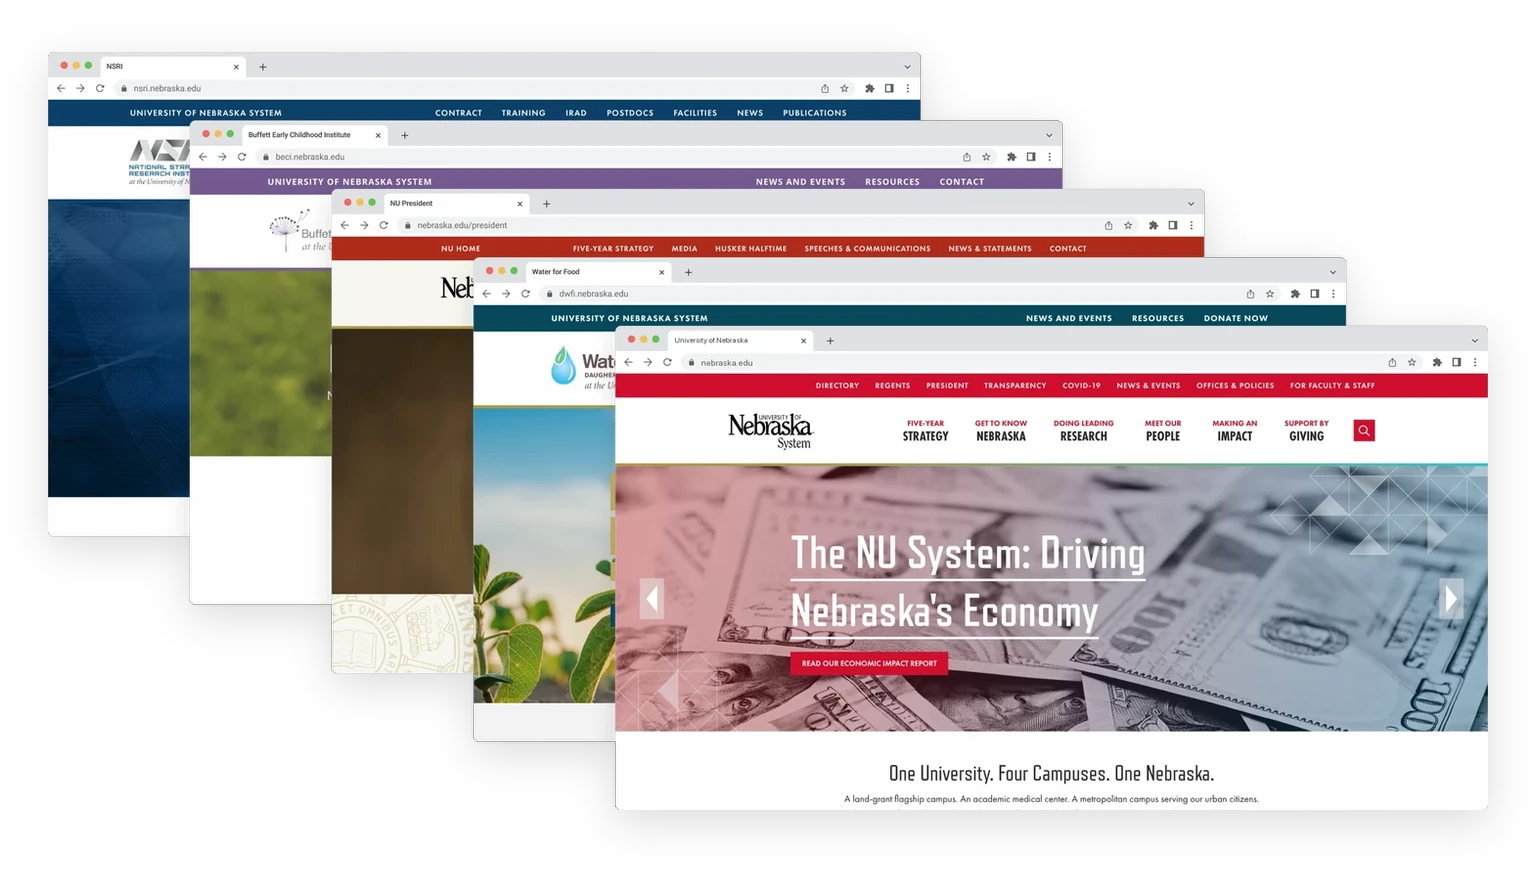
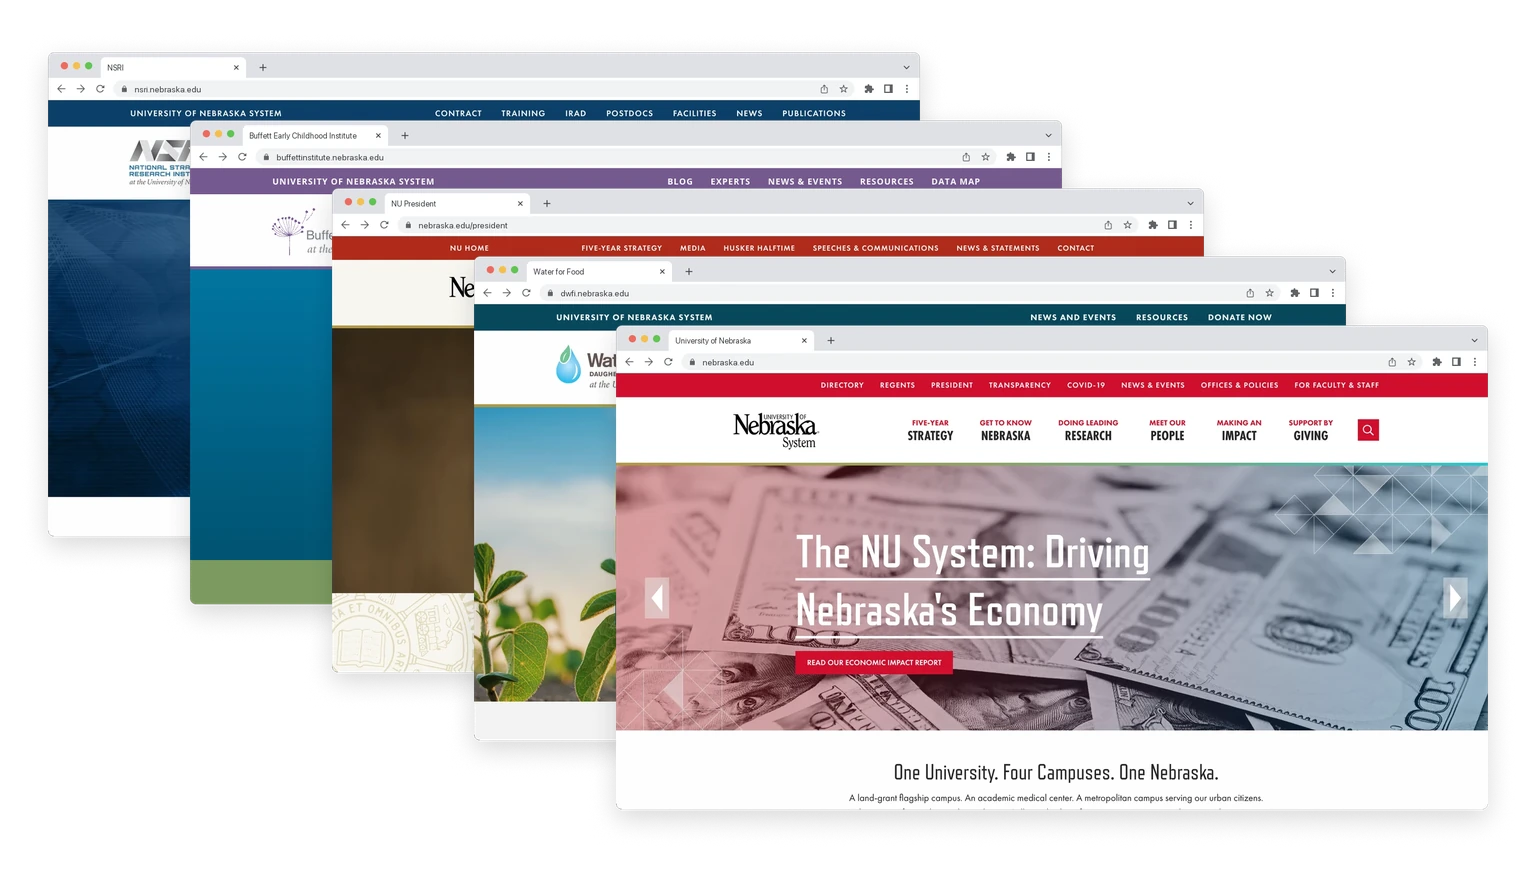
Show all nine NUcleus brands, use the live Buffett home page
NUcleus: Fig 7 and the references now cover all nine approved brands,
with new live captures of UNHS, Nebraska EPSCoR and the Buffett home
page replacing the old special-campaign page. Fig 7 labels sit 8px under
their windows. The reflection comes out of its box and the Ostrowicki
quote goes into one, matching Helios; Workflow Research's reflection is
unboxed the same way.

Homepage: the NUcleus card uses the live Buffett page.

diff --git a/projects/portfolio/src/app/components/work/nucleus-case-study.html b/projects/portfolio/src/app/components/work/nucleus-case-study.html
@@ -46,7 +46,7 @@
             <span class="text-right text-foreground">Buffett &middot; Water for Food</span>
           </div>
           <div class="grid gap-4 bg-secondary p-4 md:grid-cols-2 md:p-6">
-            <img src="assets/work/nucleus-site-buffett-early-years-matter-framed.webp" alt="The Buffett Early Childhood Institute site in violet with its dandelion mark, under the University of Nebraska System utility bar, with a full-width hero and overlaid headline." class="block h-auto w-full" decoding="async" width="1536" height="895" />
+            <img src="assets/work/nucleus-site-buffett-framed.webp" alt="The Buffett Early Childhood Institute site in violet with its dandelion mark, under the University of Nebraska System utility bar, with a full-width hero and overlaid headline." class="block h-auto w-full" decoding="async" width="1536" height="895" />
             <img src="assets/work/nucleus-site-water-for-food-framed.webp" alt="The Daugherty Water for Food Global Institute site in teal with its water-drop mark, using the same utility bar, header, navigation and hero pattern." class="block h-auto w-full" decoding="async" width="1536" height="895" />
           </div>
           <figcaption class="border-t border-border bg-background px-4 py-3 font-mono text-label-lg leading-[1.6] text-muted-foreground">Each institute brought its own brand guidelines. Both sites share the NUcleus utility bar, header, navigation and hero pattern. The photography belongs to each institute.</figcaption>
@@ -377,7 +377,10 @@
                     loading="lazy"
                     decoding="async"
                   />
-                  <span class="mt-1 flex items-start justify-between gap-3 px-[3%] text-sm font-medium leading-snug text-foreground">
+                  <!-- The frame carries 64px of transparent shadow under the window (64/1536 of
+                       its width, 4.17%). A percentage margin resolves against that same width, so
+                       the label sits 8px under the window at every size. -->
+                  <span class="relative mt-[calc(8px-4.17%)] flex items-start justify-between gap-3 px-[3%] text-sm font-medium leading-snug text-foreground">
                     {{ site.name }}
                     <span aria-hidden="true" class="text-muted-foreground transition-colors group-hover:text-primary">↗</span>
                   </span>
@@ -427,17 +430,17 @@
             <p>NUcleus remains in use today.</p>
           </div>
 
-          <div class="space-y-4 border-l-2 border-primary bg-secondary p-6">
+          <div class="space-y-4 pt-4">
             <h3 class="font-serif text-xl font-normal text-foreground">Reflection</h3>
-            <div class="max-w-[68ch] space-y-4 text-base leading-[1.7] text-muted-foreground">
+            <div class="max-w-[68ch] space-y-4 text-lead leading-[1.65] text-muted-foreground">
               <p>Direct stewardship kept NUcleus coherent while it was growing, but it also concentrated review and system knowledge in one person.</p>
               <p>Given another pass, I would formalize contribution and review earlier. Shared ownership would let teams extend the system without depending on one steward while preserving the standards that made reuse valuable.</p>
               <p>The lasting lesson was not that every interface should look alike. A design system succeeds when it gives different teams enough structure to move independently without forcing each of them to rebuild the foundation.</p>
             </div>
           </div>
 
-          <!-- Pull Quote -->
-          <div class="pt-6">
+          <!-- Pull Quote, boxed like the Helios one -->
+          <div class="mt-12! border-l-2 border-primary bg-secondary p-6">
             <div class="space-y-8">
               <!--
                 Verbatim from the LinkedIn recommendation, full text supplied by Holly

diff --git a/projects/portfolio/src/app/components/work/nucleus-case-study.ts b/projects/portfolio/src/app/components/work/nucleus-case-study.ts
@@ -28,6 +28,7 @@ export class NucleusCaseStudy {
   /** Nebraska.edu follows NUcleus in the case-study sequence. */
   protected readonly nextProject = { link: '/work/nebraska-edu', label: 'Nebraska.edu' };
 
+  /** All nine approved brands, Buffett and Water for Food included even though the hero shows them. */
   protected readonly scaleSites: EcosystemSite[] = [
     {
       name: 'University of Nebraska System',
@@ -35,9 +36,24 @@ export class NucleusCaseStudy {
       screenshot: '/assets/work/nucleus-site-nebraska-edu-home-framed.webp',
     },
     {
+      name: 'University of Nebraska High School',
+      url: 'https://highschool.nebraska.edu/',
+      screenshot: '/assets/work/nucleus-site-unhs-framed.webp',
+    },
+    {
       name: 'National Strategic Research Institute',
       url: 'https://nsri.nebraska.edu/',
       screenshot: '/assets/work/nucleus-site-nsri-framed.webp',
+    },
+    {
+      name: 'Daugherty Water for Food Global Institute',
+      url: 'https://waterforfood.nebraska.edu/',
+      screenshot: '/assets/work/nucleus-site-water-for-food-framed.webp',
+    },
+    {
+      name: 'Buffett Early Childhood Institute',
+      url: 'https://buffettinstitute.nebraska.edu/',
+      screenshot: '/assets/work/nucleus-site-buffett-framed.webp',
     },
     {
       name: 'Transfer Nebraska',
@@ -48,6 +64,11 @@ export class NucleusCaseStudy {
       name: 'Office of the President',
       url: 'https://nebraska.edu/president/',
       screenshot: '/assets/work/nucleus-site-office-of-the-president-framed.webp',
+    },
+    {
+      name: 'Nebraska EPSCoR',
+      url: 'https://epscor.nebraska.edu/',
+      screenshot: '/assets/work/nucleus-site-epscor-framed.webp',
     },
     {
       name: 'Young Nebraska Scientists',
@@ -64,15 +85,21 @@ export class NucleusCaseStudy {
 
   protected readonly referenceStack: string[] = ['HTML', 'SCSS', 'Handlebars'];
 
+  /** The nine approved university brands built on NUcleus. */
   protected readonly references: Reference[] = [
     { label: 'University of Nebraska System', url: 'https://nebraska.edu/', domain: 'nebraska.edu' },
-    { label: 'Water for Food Global Institute', url: 'https://waterforfood.nebraska.edu/', domain: 'waterforfood.nebraska.edu' },
-    { label: 'Buffett Early Childhood Institute', url: 'https://buffettinstitute.nebraska.edu/', domain: 'buffettinstitute.nebraska.edu' },
+    { label: 'University of Nebraska High School', url: 'https://highschool.nebraska.edu/', domain: 'highschool.nebraska.edu' },
     { label: 'National Strategic Research Institute', url: 'https://nsri.nebraska.edu/', domain: 'nsri.nebraska.edu' },
+    { label: 'Daugherty Water for Food Global Institute', url: 'https://waterforfood.nebraska.edu/', domain: 'waterforfood.nebraska.edu' },
+    { label: 'Buffett Early Childhood Institute', url: 'https://buffettinstitute.nebraska.edu/', domain: 'buffettinstitute.nebraska.edu' },
     { label: 'Transfer Nebraska', url: 'https://transfer.nebraska.edu/', domain: 'transfer.nebraska.edu' },
+    { label: 'Office of the President', url: 'https://nebraska.edu/president/', domain: 'nebraska.edu/president' },
+    { label: 'Nebraska EPSCoR', url: 'https://epscor.nebraska.edu/', domain: 'epscor.nebraska.edu' },
+    { label: 'Young Nebraska Scientists', url: 'https://yns.nebraska.edu/', domain: 'yns.nebraska.edu' },
   ];
 
   protected favicon(domain: string): string {
-    return `https://www.google.com/s2/favicons?domain=${domain}&sz=16`;
+    // The host alone: a path-qualified entry like nebraska.edu/president shares its site's icon.
+    return `https://www.google.com/s2/favicons?domain=${domain.split('/')[0]}&sz=16`;
   }
 }

diff --git a/projects/portfolio/src/app/components/work/analysis-workflow-case-study.html b/projects/portfolio/src/app/components/work/analysis-workflow-case-study.html
@@ -310,9 +310,9 @@
             <p>The research identified and shaped work around the gap, but the complete reporting path had not been delivered when I left.</p>
           </div>
 
-          <div class="space-y-4 border-l-2 border-primary bg-secondary p-6">
+          <div class="space-y-4 pt-4">
             <h3 class="font-serif text-xl font-normal text-foreground">Reflection</h3>
-            <div class="max-w-[68ch] space-y-4 text-base leading-[1.7] text-muted-foreground">
+            <div class="max-w-[68ch] space-y-4 text-lead leading-[1.65] text-muted-foreground">
               <p>The shared model gave the teams a way to make decisions beyond the feature in front of them.</p>
               <p>It connected daily product work to a larger investigative flow and helped distinguish between unnecessary inconsistency and differences the domain genuinely required.</p>
               <p>The next research priority would have been deeper external work around the Tangles and Webloc open-source workflow. That evidence could then strengthen the reporting trail into PLX’s evidence-grade work.</p>
